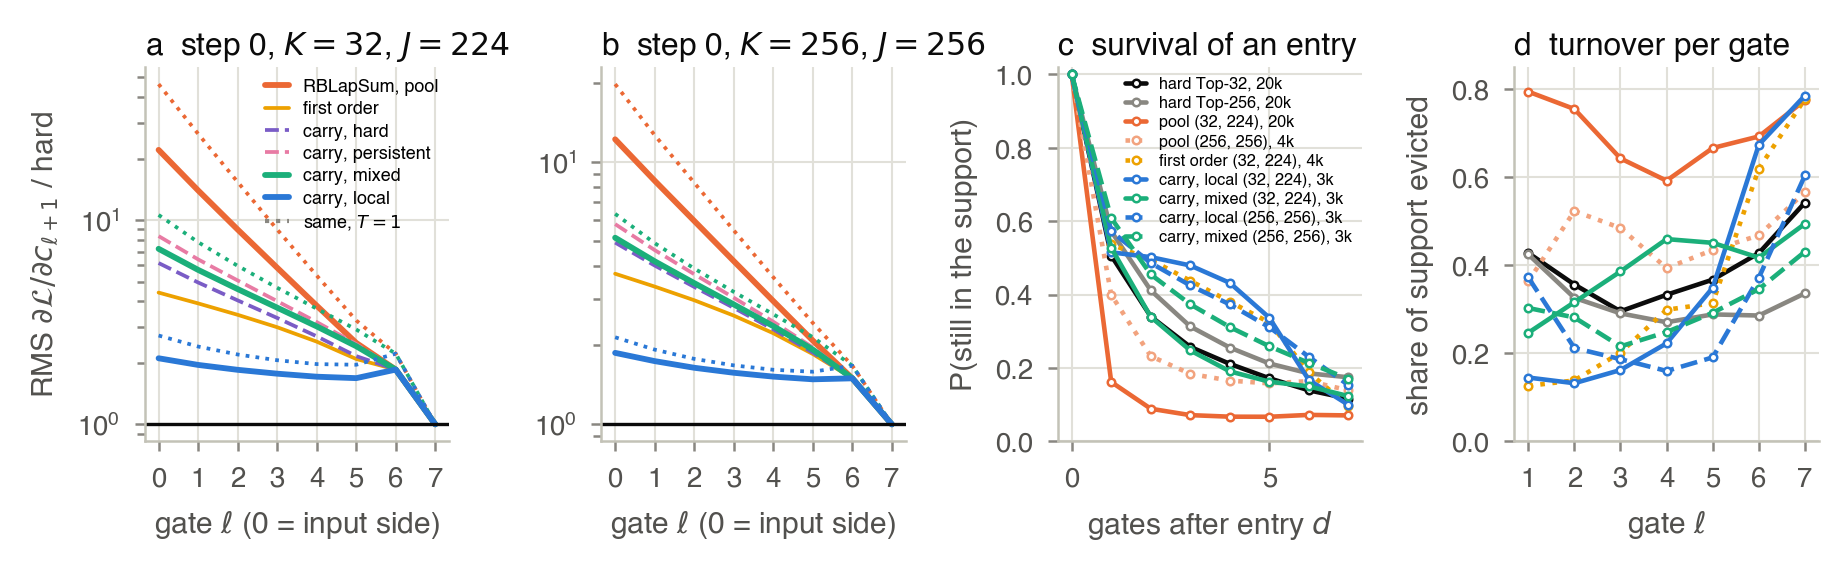
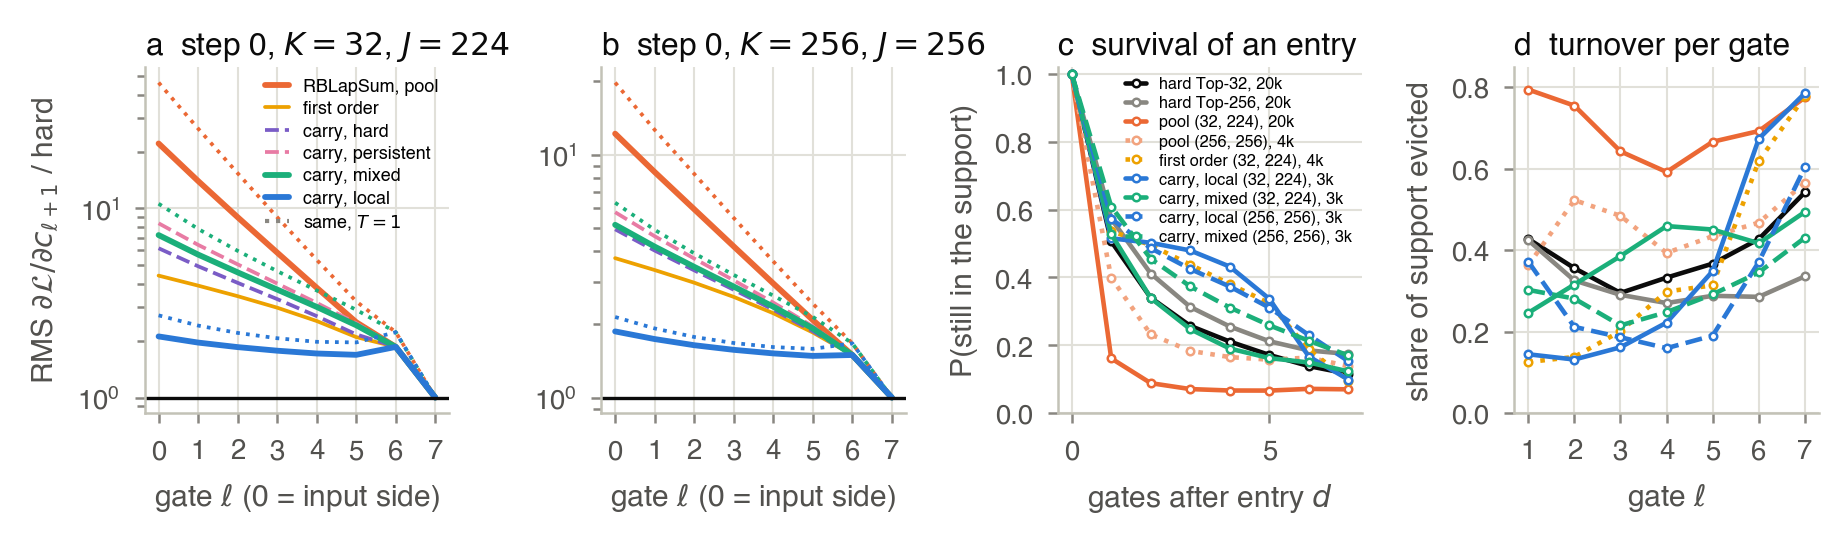
carry note: two-page layout pass

diff --git a/docs/carry-surrogate.tex b/docs/carry-surrogate.tex
@@ -1,6 +1,6 @@
 \documentclass[10pt,a4paper]{article}
 
-\usepackage[margin=1.65cm,top=1.4cm,bottom=1.5cm]{geometry}
+\usepackage[margin=1.5cm,top=1.25cm,bottom=1.3cm]{geometry}
 \usepackage{amsmath,amssymb}
 \usepackage{graphicx}
 \usepackage{booktabs}
@@ -31,12 +31,12 @@ Runs \code{be\_cr\_*} (box bergen), configs \code{configs/cr\_kj/carry/}, \code{
 
 \section{The problem}
 
-With the code carried between blocks (\code{code\_residual}) hard Top-\(K'\) gains \(0.06\)--\(0.075\) nats at every
-\(K'\) and RBLapSum (\(K\) active, pool \(K{+}J\)) gains \(-0.03\) to \(+0.015\): at a matched active count it is worth
-\(0.047\) at \(K=32\), loses \(0.02\)--\(0.03\) at \(K=128,256\), no cell reaches hard Top-\((K{+}J)\), and its backward
-is the unstable part of the grid (\code{docs/kj-vs-hard-topk-code-residual.tex}).  The first-order scope removes the
-instability with a second backward pass and is \emph{worse} than the unmodified surrogate at every \(K=32\) cell
-(\(+0.007\) to \(+0.017\) at 20k).  This note locates the conflict and removes it at no cost.
+With the code carried between blocks hard Top-\(K'\) gains \(0.06\)--\(0.075\) nats at every \(K'\) and RBLapSum
+(\(K\) active, pool \(K{+}J\)) gains \(-0.03\) to \(+0.015\): at a matched active count it is worth \(0.047\) at
+\(K=32\), loses \(0.02\)--\(0.03\) at \(K=128,256\), no cell reaches hard Top-\((K{+}J)\), and its backward is the
+unstable part of the grid (\code{docs/kj-vs-hard-topk-code-residual.tex}); the first-order scope removes the
+instability with a second backward pass and is \emph{worse} than the unmodified surrogate at every \(K=32\) cell.
+This note locates the conflict and removes it at no cost.
 
 \section{Where the probabilities act}
 
@@ -49,15 +49,15 @@ Gate \(\ell\) reads \(u_\ell=c_\ell+v_\ell\) (carried code plus the block's enco
   r_{\ell+1}=D_\ell^{\!\top}\frac{\partial\mathcal L}{\partial(D_\ell c_{\ell+1})}
   \label{eq:hard}
 \end{equation}
-(at the last gate \(r\) is the unembedding's gradient).  In the stream-carried stack the gate has only the second
+(\(r\) is the unembedding's gradient at the last gate).  In the stream-carried stack the gate has only the second
 consumer: everything block \(\ell{+}1\) does, its own gate included, goes through \(D_\ell\).  RBLapSum relaxes the gate
-as a whole, \(M_\ell\to M_\ell+S_\ell\) (support term \(S_\ell\) of \code{through\_rank\_kappa}, kernel
-\(\kappa_i=e^{-|s_i-b|/T}/2T\), \(S_{ii}=|u_i|\kappa_i\approx b/2T\) at the boundary).  In the stream stack \(S_\ell\)
-acts on \(r_{\ell+1}\) alone and reaches gate \(\ell{-}1\) through \(E_\ell\), the block and \(D_{\ell-1}\), which mix
-the coordinates.  In the code stack it also acts on \(g^{\rm c}_{\ell+1}\), which already contains
-\(S_{\ell+1}g^{\rm c}_{\ell+2}\): along a coordinate near the boundary the backward multiplies \(1+|u|\kappa\) per gate.
-The carry is a residual connection in code space, trainable because its backward is the identity; a relaxation
-placed on the skip path compounds.  The conflict is \emph{where} the probabilities act, not the kernel.
+as a whole, \(M_\ell\to M_\ell+S_\ell\) (support term of \code{through\_rank\_kappa}, kernel \(\kappa_i=e^{-|s_i-b|/T}/2T\),
+\(S_{ii}=|u_i|\kappa_i\approx b/2T\) at the boundary).  In the stream stack \(S_\ell\) acts on \(r_{\ell+1}\) alone and
+reaches gate \(\ell{-}1\) through \(E_\ell\), the block and \(D_{\ell-1}\), which mix the coordinates.  In the code stack
+it also acts on \(g^{\rm c}_{\ell+1}\), which already contains \(S_{\ell+1}g^{\rm c}_{\ell+2}\): along a coordinate near
+the boundary the backward multiplies \(1+|u|\kappa\) per gate.  The carry is a residual connection in code space,
+trainable because its backward is the identity; a relaxation on the skip path compounds.  The conflict is \emph{where}
+the probabilities act, not the kernel.
 
 \section{The carry-aware surrogate}
 
@@ -73,25 +73,35 @@ with \(H_\ell=M_\ell(r_{\ell+1}+H_{\ell+1})\) the downstream read gradients a co
 \(R_\ell=r_{\ell+1}+\rho R_{\ell+1}\) every downstream read with a survival factor \(\rho\) per gate, \(H=R=0\) above
 the last gate.  The support term is driven by read gradients only, so no kernel sees another gate's support term
 through the carry: the products are gone, the terms of the gates above still reach gate \(\ell\) added through
-\(M_\ell\), and carry and update receive one gradient (R1 of \code{docs/rblapsum-code-residual.tex}); the cost is two
+\(M_\ell\), carry and update receive one gradient (R1 of \code{docs/rblapsum-code-residual.tex}), and the cost is two
 per-coordinate sums along the backward, no second pass.  The drivers are the first-order loss change of one flip at
-gate \(\ell\) under three models of what follows (\(c_{\ell+1,i}\) changes by \(\pm u_{\ell,i}\); block \(\ell{+}1\)
-reads it, later blocks read it while the coordinate stays in the code).  \emph{Local}: the next read only, the stream
+gate \(\ell\) (\(c_{\ell+1,i}\) changes by \(\pm u_{\ell,i}\); block \(\ell{+}1\) reads it, later blocks while the
+coordinate stays in the code) under three models of what follows.  \emph{Local}: the next read only -- the stream
 stack's logic, exactly the gradient of a model whose decoder reads a relaxed gate while the carry is hard.
 \emph{Hard}: the actual downstream masks (an evicted feature's remaining run; for an inactive candidate almost always
 nothing).  \emph{Persistent}: an entering coordinate survives each further gate with probability \(\rho\).
-\emph{Mixed}: hard for the active members, persistent for the inactive ones; \(\rho\) is measured below.  The
-first-order estimator needs the fully hard gradient at every gate, hence a second pass; here the carry is where the
-gradient is taken hard, and the reads still carry the gates above through the branch, as in the stream stack.
+\emph{Mixed}: hard for the active members, persistent for the inactive ones.  (First order needs the fully hard
+gradient at every gate, hence its second pass; here only the carry is taken hard.)
+
+\begin{figure}[t]
+\centering
+\includegraphics[width=\textwidth]{figures/carry/fig_mech.png}
+\caption{\textbf{a}, \textbf{b} Backward along the carried code at initialization: RMS \(\partial\mathcal
+L/\partial c_{\ell+1}\) at each gate's output relative to the hard backward (\code{analysis/surrogate\_probe.py}).
+Under \code{pool} it grows \(\times1.5\) (\(K{=}32\)) and \(\times1.4\) (\(K{=}256\)) per gate toward the input,
+\(22\times\) and \(12\times\) hard at gate 0 (\(46\times\) at \(T{=}1\), dotted); the carry scopes and first order grow
+additively.  \textbf{c}, \textbf{d} Runs of the code (\code{analysis/code\_runs.py}): P(an entered feature is still
+in the support \(d\) gates later); share of the support gate \(\ell\) receives that it evicts.}
+\label{fig:mech}
+\end{figure}
 
 \section{Measurements}
 
 \textbf{Setup.}  The code-carried \(T=2\) arm of the K+J grid (8\(\times\)768, \(N=1536\), \code{residual\_out} at
 every block, no output norm, batch \(96\times512\), 20k-step cosine schedule, seed 1337).  Baselines are the grid's
-runs (hard Top-\(K'\) with the post-norm, RBLapSum \code{pool}, the \code{first\_order} sweep) read at matching steps;
-each new scope trains the grid's config with one field changed, stopped at step 3000 with the schedules untouched;
-two cells are continued to 10k.  Step 3000 is where the grid's surrogate margins are largest and already of their
-final sign (\code{pool}: \(-0.061\to-0.042\) from 3k to 20k at \(K=32\), \(+0.048\to+0.034\) at \(K=256\)).
+runs read at matching steps; each new scope trains the grid's config with one field changed, stopped at step 3000
+with the schedules untouched, two cells continued to 10k.  At step 3000 the grid's surrogate margins are largest and already of their final sign
+(\code{pool}: \(-0.061\to-0.042\) from 3k to 20k at \(K=32\), \(+0.048\to+0.034\) at \(K=256\)).
 
 \textbf{At initialization} (Fig.~\ref{fig:mech}a,b) the surrogate's share of the gradient energy at the gates,
 \(\sigma=\lVert S^\top\hat g\rVert^2/\lVert m\odot g\rVert^2\), is \(0.70\) for \code{pool}, \(0.74\) for mixed,
@@ -101,88 +111,67 @@ mixed scope injects as much support signal as the unmodified backward, as a sum 
 \textbf{Runs of the carried code} (Fig.~\ref{fig:mech}c,d; 16 validation sequences, hard forward).  The carry is
 persistent for a subset of the code, not for the code: in the trained hard Top-32 model every gate evicts
 \(30\)--\(54\%\) of the support it receives, an entered feature is still there one gate later with probability
-\(0.51\) and two gates later \(0.34\), \(12\%\) of the final code was carried from gate 0 and \(54\%\) entered at the
-last gate (hard Top-256: \(0.57\), \(0.41\), \(17\%\), \(34\%\)); an entry at gate 0 is read by \(2.7\)--\(3.1\) blocks
-on average, against 8 under the persistent model and 1 under the local one.  The \code{pool} surrogate trains the
+\(0.51\) and two later \(0.34\), \(12\%\) of the final code was carried from gate 0 and \(54\%\) entered at the last
+gate (hard Top-256: \(0.57\), \(0.41\), \(17\%\), \(34\%\)); an entry at gate 0 is read by \(2.7\)--\(3.1\) blocks on
+average, against 8 under the persistent model and 1 under the local one.  The \code{pool} surrogate trains the
 model \emph{out of} the carry -- at \((32,224)\) turnover \(63\%\) per gate at step 4000 and \(70\%\) at 20k, survival
 \(0.21\to0.16\), \(77\%\) of the final code entering at the last gate: the stream stack's re-selection at every block,
-in a model that has a carry -- which is why the carry was ``nearly neutral'' for it in the grid.  Every carry-scope
-model keeps the hard model's code: survival \(0.52\)--\(0.61\), turnover \(30\)--\(40\%\) at step 3000 (hard:
-\(0.60\)--\(0.62\), \(28\)--\(31\%\) at 4000).
+in a model that has a carry -- which is why the carry was ``nearly neutral'' for it.  Every carry-scope model keeps
+the hard model's code: survival \(0.52\)--\(0.61\), turnover \(30\)--\(40\%\) at step 3000 (hard: \(0.60\)--\(0.62\),
+\(28\)--\(31\%\) at 4000).
 
-\textbf{Training} (Fig.~\ref{fig:training}, Table~\ref{tab:screens}).  At \((32,224)\) the local scope ends step 3000
+\textbf{Training} (Fig.~\ref{fig:training}).  At \((32,224)\) the local scope ends step 3000
 at \(-0.058\) below hard Top-32, where \code{pool} is at \(-0.061\) and first order at \(-0.033\); it leads \code{pool}
 by \(0.02\) at step 1000 and the two coincide from 2000.  The mixed scope ends at \(-0.118\), twice the margin of the
 unmodified surrogate and the margin of hard Top-128 over hard Top-32 at that step (\(-0.124\)): 32 active features at
-the loss of the hard model that activates 128 (\(1.782\) against \(1.776\)).  Continued to 10k steps its margin
-decays as the grid's do, \(-0.109\) at 5k and \PH{} at 10k, against hard Top-128 at \(-0.121\) and \(-0.117\) and
-\code{pool} at \(-0.054\) and \(-0.045\).  At \((256,256)\), the pathological cell (\code{pool} \(+0.047\) at 3000,
-its code turning over \(46\%\) per gate against the hard model's \(28\%\)), the local scope closes the gap to
-\(+0.009\) (\(+0.065\), \(+0.030\), \(+0.016\), \(+0.009\) at steps 500--3000, against \(+0.133\), \(+0.087\),
-\(+0.057\), \(+0.048\)) and the mixed scope is below hard Top-256 from step 2000: \(-0.0045\) at 3000 (\(1.736\)
-against \(1.741\)), a surrogate ahead of the hard model with the same active count, which no code-carried cell of
-the grid achieved; hard Top-512 is at \(-0.037\), and the hard baselines carry a post-norm worth about \(0.007\) to a
-hard model in the stream grid.  At 10k \PH{}.  On the diagonal \(J=K\), the stream grid's winning configuration, the
-mixed scope reaches \PH{} at \((128,128)\) and \PH{} at \((64,64)\) against hard Top-\(2K\) at \(-0.035\) and
-\(-0.059\).  With the measured survival \(\rho=0.5\) in the persistent chain \PH{}.  No carry-scope run's gradient
-norm exceeded 1 (\code{pool} at \((32,224)\): four spikes, to 3.3), and their feature-usage entropy is the hard
-model's (\(0.79\) and \(0.94\) at \(K=32\), \(256\); hard \(0.73\), \(0.93\); \code{pool} \(0.59\), \(0.89\)).
+the loss of the hard model that activates 128 (\(1.782\) against \(1.776\)).  Continued to 10k its margin decays as
+the grid's do, \(-0.109\) at 5k and \PH{} at 10k, against hard Top-128 at \(-0.121\), \(-0.117\) and \code{pool} at
+\(-0.054\), \(-0.045\).  At \((256,256)\), the pathological cell (\code{pool} \(+0.047\) at 3000, its code turning
+over \(46\%\) per gate against the hard model's \(28\%\)), the local scope closes the gap to \(+0.009\) (\(+0.065\),
+\(+0.030\), \(+0.016\), \(+0.009\) at steps 500--3000, against \(+0.133\), \(+0.087\), \(+0.057\), \(+0.048\)) and the
+mixed scope is below hard Top-256 from step 2000, \(-0.0045\) at 3000 (\(1.736\) against \(1.741\)): a surrogate
+ahead of the hard model with the same active count, which no code-carried cell of the grid achieved; hard Top-512 is
+at \(-0.037\), and the hard baselines carry a post-norm worth about \(0.007\) to a hard model in the stream grid.  At
+10k \PH{}.  On the diagonal \(J=K\), the stream grid's winning configuration, the mixed scope reaches \PH{} at
+\((128,128)\) and \PH{} at \((64,64)\), against hard Top-\(2K\) at \(-0.035\) and \(-0.059\); with the measured
+survival \(\rho=0.5\) in the persistent chain \PH{}.  No carry-scope run's gradient norm exceeded 1 (\code{pool} at
+\((32,224)\): four spikes, to 3.3); their feature-usage entropy is the hard model's (\(0.79\), \(0.94\); hard
+\(0.73\), \(0.93\); \code{pool} \(0.59\), \(0.89\)).
 
 \begin{figure}[t]
 \centering
 \includegraphics[width=\textwidth]{figures/carry/fig_training.png}
-\caption{\textbf{Validation CE relative to hard Top-\(K\)} (code carried, post-norm).  \textbf{a}, \textbf{b} The
-first 3000 steps; dashed, hard Top-\((K{+}J)\), the model that activates the whole pool.  \textbf{c}, \textbf{d} The
-mixed scope continued to 10k steps against the grid's 20k runs.}
+\caption{\textbf{Validation CE relative to hard Top-\(K\)} (code carried, post-norm): \textbf{a}, \textbf{b} the
+first 3000 steps, dashed hard Top-\((K{+}J)\); \textbf{c}, \textbf{d} the mixed scope continued to 10k against the grid's
+20k runs.}
 \label{fig:training}
 \end{figure}
 
-\begin{table}[t]
-\centering\small
-\begin{tabular}{llcccccc}
-\toprule
-\(K\) & \(J\) & pool & first order & carry local & carry mixed & mixed, \(\rho{=}0.5\) & hard Top-\((K{+}J)\) \\
-\midrule
-32 & 224 & \(-0.061\) & \(-0.033\) & \(-0.058\) & \(\mathbf{-0.118}\) & \PH{} & \(-0.158\) \\
-64 & 64 & \(-0.005\) & \(-0.003\) & -- & \PH{} & -- & \(-0.059\) \\
-128 & 128 & \(+0.025\) & -- & -- & \PH{} & -- & \(-0.035\) \\
-256 & 256 & \(+0.047\) & -- & \(+0.009\) & \(\mathbf{-0.005}\) & \PH{} & \(-0.037\) \\
-\bottomrule
-\end{tabular}
-\caption{Validation CE at step 3000 minus the code-carried hard Top-\(K\) of the row (\(1.899\), \(1.835\),
-\(1.776\), \(1.741\)); \code{pool} and first order are the grid's runs read at step 3000.}
-\label{tab:screens}
-\end{table}
 
 \section{What the measurements show}
 
 \textbf{The conflict is the placement, not the kernel.}  RBLapSum relaxes a gate whose output, in the code-carried
-stack, is also a skip connection, and the relaxation is multiplied along the skip path, \(1+b/2T\) per gate
-(Fig.~\ref{fig:mech}a,b).  Putting the probabilities where they were in the stream-carried stack -- on what the decoder
-reads -- and leaving the carry's backward the mask removes the product exactly, in one backward pass, with one
-gradient for carry and update.  Trained, the local scope keeps the unmodified surrogate's whole gain at \(K=32\)
-(first order, which also removes the product but needs a second pass, keeps half of it) and four fifths of the
-unmodified surrogate's loss at \(K=256\) disappears, without a gradient spike in either cell.
+stack, is also a skip connection, and the relaxation is multiplied along it, \(1+b/2T\) per gate.  Putting the
+probabilities where they were in the stream-carried stack -- on what the decoder reads -- and leaving the carry's
+backward the mask removes the product exactly, in one pass.  Trained, the local scope keeps the unmodified
+surrogate's whole gain at \(K=32\) (first order, which also removes the product but needs a second pass, keeps half)
+and removes four fifths of its loss at \(K=256\), without a gradient spike.
 
 \textbf{The carry gives the surrogate what the stream stack could not: a downstream for the entry term.}  In the
 stream stack a candidate entering at gate \(\ell\) is re-encoded by gate \(\ell{+}1\), so the next read is all there is
-to evaluate it against.  In the code stack an entering feature is carried, and the first-order value of admitting it
-is the sum of the reads it would reach.  The mixed scope evaluates inactive candidates on that sum and active
-members on the reads their run actually reaches; it doubles the gain at \(K=32\) and turns the loss at \(K=256\)
-into a gain, with the unmodified backward's surrogate energy (\(\sigma=0.74\) against \(0.70\)) delivered as a sum of
-single-flip terms instead of a product.  The unmodified backward was not too strong; it was multiplying.
+to evaluate it against; in the code stack an entering feature is carried, and the first-order value of admitting it
+is the sum of the reads it would reach.  The mixed scope evaluates inactive candidates on that sum and active members
+on the reads their run reaches: it doubles the gain at \(K=32\) and turns the loss at \(K=256\) into a gain, with the
+unmodified backward's surrogate energy (\(\sigma=0.74\) against \(0.70\)) delivered as a sum of single-flip terms
+instead of a product.  The unmodified backward was not too strong; it was multiplying.
 
-\textbf{The surrogate-trained model uses the carry only when the surrogate leaves the carry alone.}  Trained hard
-models carry about half of their support from gate to gate; \code{pool}-trained ones re-select \(46\)--\(70\%\) of it
-at every gate and end with the stream stack's code, which is why the carry was worth nothing to them.  Every
-carry-scope model has the hard model's survival and turnover: the surrogate's support signal and the carry's
-persistence add instead of competing.
+\textbf{The model uses the carry only when the surrogate leaves it alone.}  Trained hard models carry about half
+of their support from gate to gate; \code{pool}-trained ones re-select \(46\)--\(70\%\) of it at every gate and end
+with the stream stack's code, which is why the carry was worth nothing to them; every carry-scope model has the hard
+model's survival and turnover, so the support signal and the carry's persistence add instead of competing.
 
 \textbf{Scope.}  One seed, one family (8 layers, \(N=1536\), \(T=2\), no output norm), 3000-step screens and two 10k
-continuations against step-matched 20k baselines trained on another machine of the same GPU generation; the only
-calibration of what a 3000-step margin becomes is the grid's own (\code{pool}: \(-0.061\to-0.042\), \(+0.048\to+0.034\))
-and the continuations (\PH{}).  Not tested: \(T=1\) and the post-norm arm, the ``hard'' and ``persistent'' drivers
-alone \PH{}, DDP (the chain is per process; nothing in it is rank-global), and depths beyond eight blocks, where the
-24-layer stack is the case the product first collapsed.
+continuations against step-matched 20k baselines from another machine of the same GPU generation; not tested:
+\(T=1\) and the post-norm arm, the hard and persistent drivers alone \PH{}, depths beyond eight blocks.
 
 \end{document}

diff --git a/scripts/plot_carry.py b/scripts/plot_carry.py
@@ -335,7 +335,7 @@ def fig_long(max_step=10000):
 
 def fig_training():
     cv = curves()
-    fig, axes = plt.subplots(1, 4, figsize=(7.2, 1.7), gridspec_kw={"wspace": 0.55})
+    fig, axes = plt.subplots(1, 4, figsize=(7.2, 1.55), gridspec_kw={"wspace": 0.55})
     keys = ("pool", "fo", "ch", "cp", "cm05", "cm", "cl")
     for ax, cell, letter in zip(axes[:2], ((32, 224), (256, 256)), "ab"):
         delta_panel(ax, cv, cell, keys, 3000, show_pool_ref=True)
@@ -376,7 +376,7 @@ def fig_training():
 
 def fig_mech():
     """One row: the backward at initialization (a, b) and the runs of the code (c, d)."""
-    fig, axes = plt.subplots(1, 4, figsize=(7.2, 1.62), gridspec_kw={"wspace": 0.5})
+    fig, axes = plt.subplots(1, 4, figsize=(7.2, 1.5), gridspec_kw={"wspace": 0.5})
     # (a, b) initialization
     for ax, (kj, title) in zip(axes[:2], [("k32_j224", r"a  step 0, $K{=}32$, $J{=}224$"),
                                           ("k256_j256", r"b  step 0, $K{=}256$, $J{=}256$")]):
